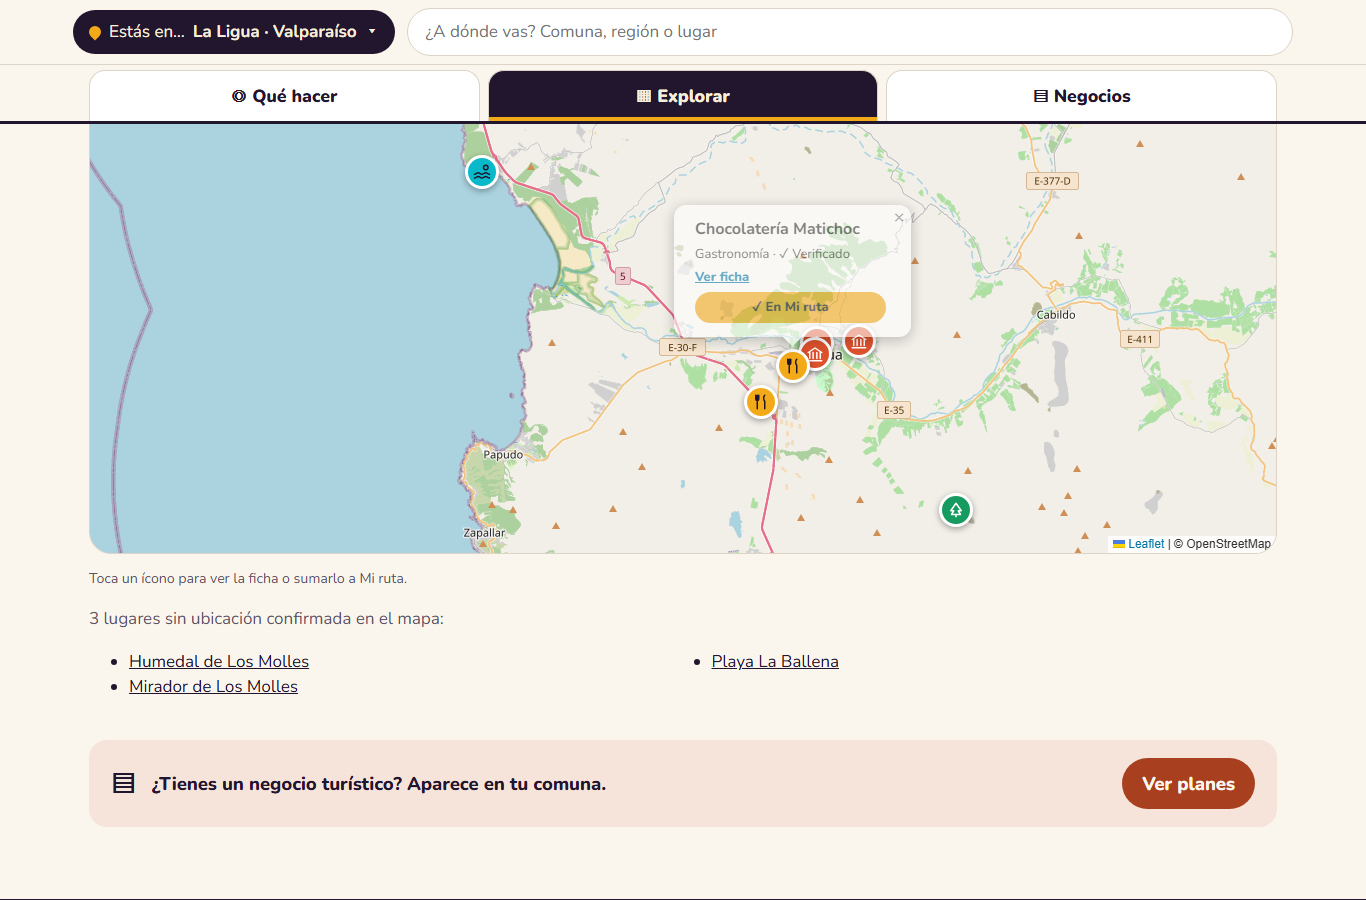
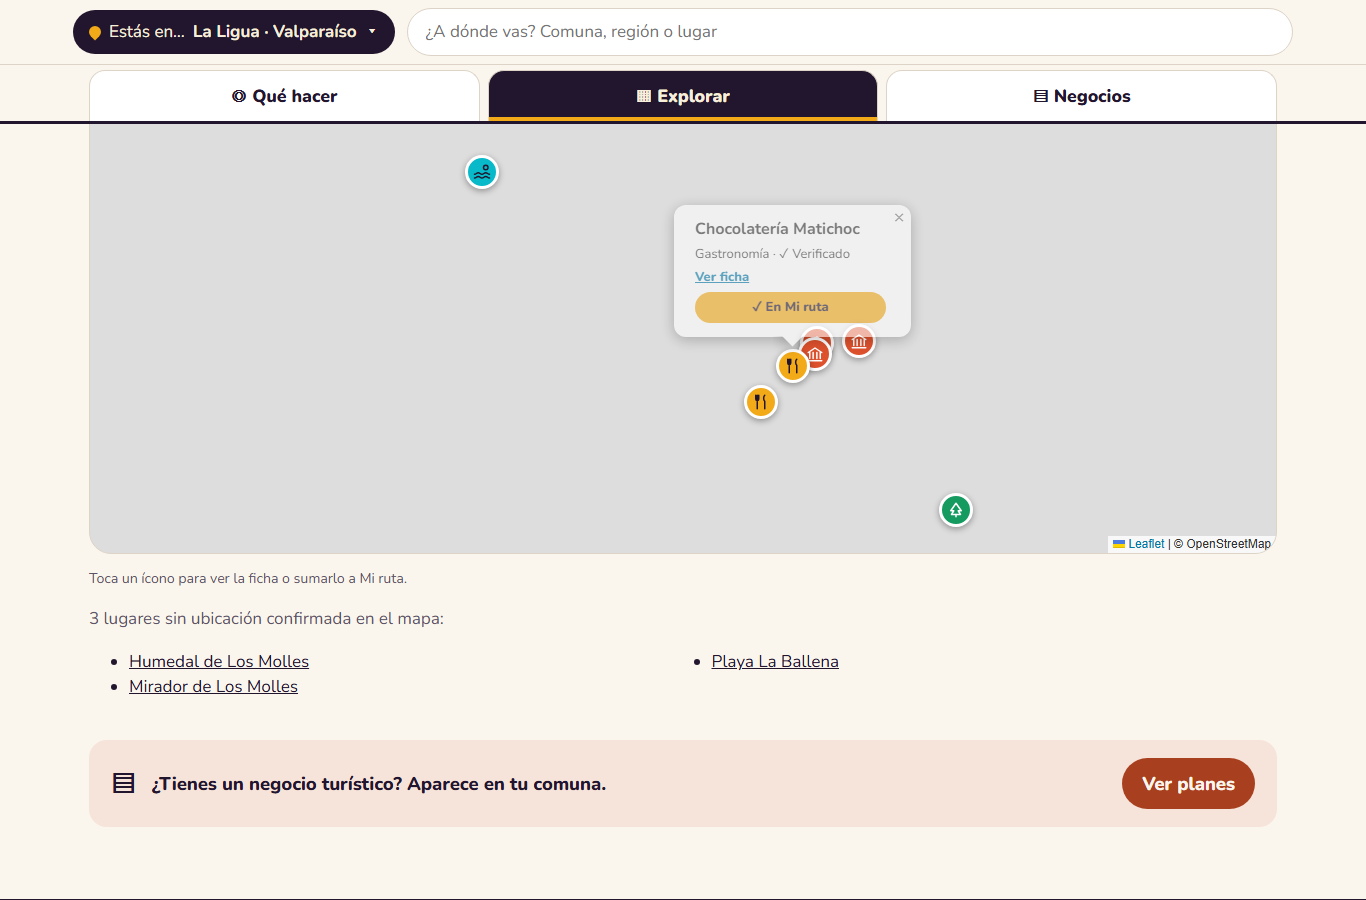
feat: agregar Humberstone y Santa Laura desde fuente oficial
Oficinas salitreras en Pozo Almonte (Provincia del Tamarugal), con ficha y
coordenadas del Consejo de Monumentos Nacionales y estado Fuente oficial.
Corrige el nombre de las provincias del Tamarugal y del Ranco.

diff --git a/packages/core/src/catalog.ts b/packages/core/src/catalog.ts
@@ -1,6 +1,7 @@
 import master from "../../../content/catalogo/maestro-app.json";
 import national from "../../../content/catalogo/osm-chile.json";
 import snapshot from "../../../content/catalogo/petorca.json";
+import official from "../../../content/catalogo/oficiales.json";
 import geography from "../../../content/catalogo/regiones.geo.json";
 import verificationLog from "../../../content/catalogo/verificacion.json";
 import planLog from "../../../content/catalogo/planes-negocios.json";
@@ -33,7 +34,7 @@ export interface Place {
   longitude: number | null;
   source: { url: string; label: string } | null;
   verification: VerificationStatus;
-  origin?: "osm" | "master";
+  origin?: "osm" | "master" | "official";
   importedAt: string;
   /** Plan comercial vigente (solo negocios). */
   plan?: BusinessPlan["id"] | null;
@@ -96,7 +97,12 @@ export const hiddenPlaceIds = new Set(
   (planLog.ocultos as { placeId: string }[]).map((r) => r.placeId),
 );
 export const places = (
-  [...snapshot.places, ...national.places, ...master.places] as Place[]
+  [
+    ...snapshot.places,
+    ...national.places,
+    ...master.places,
+    ...official.places,
+  ] as Place[]
 )
   .filter((p) => !hiddenPlaceIds.has(p.id))
   .map((p): Place => {

diff --git a/packages/core/src/catalog.test.ts b/packages/core/src/catalog.test.ts
@@ -223,3 +223,20 @@ describe("negocios en el mapa según plan", () => {
     ).toEqual(["chocolateria-matichoc"]);
   });
 });
+
+describe("lugares agregados desde fuentes oficiales", () => {
+  it("Humberstone está en Pozo Almonte con fuente y coordenadas oficiales", () => {
+    const h = places.find(
+      (p) => p.id === "oficinas-salitreras-humberstone-santa-laura",
+    )!;
+    expect(h).toMatchObject({
+      region: "tarapaca",
+      province: "del-tamarugal",
+      commune: "pozo-almonte",
+      verification: "official",
+      origin: "official",
+    });
+    expect(h.latitude).toBeCloseTo(-20.2086, 3);
+    expect(h.source?.url).toContain("monumentos.gob.cl");
+  });
+});

diff --git a/packages/i18n/src/es-sitio.ts b/packages/i18n/src/es-sitio.ts
@@ -56,7 +56,11 @@ export const sitio = {
     "Ilustración de referencia de la zona; no es una fotografía del lugar.",
   regionTitle: (name: string, id: string) =>
     id === "metropolitana" ? `Región ${name}` : `Región de ${name}`,
-  provinceTitle: (name: string) => `Provincia de ${name}`,
+  // «Del Tamarugal» y «Del Ranco» se nombran «Provincia del …».
+  provinceTitle: (name: string) =>
+    name.startsWith("Del ")
+      ? `Provincia del ${name.slice(4)}`
+      : `Provincia de ${name}`,
   provinces: "Provincias",
   communes: "Comunas",
   communesCount: (n: number) => plural(n, "comuna", "comunas"),

diff --git a/docs/BITACORA.md b/docs/BITACORA.md
@@ -304,3 +304,4 @@ GitHub rechazó la primera subida con GH007 por el correo privado de los commits
 - El titular decide tratar el Área de los Dulces de La Ligua como atractivo (zona tradicional de dulceras, no un negocio único): vuelve al mapa y a rutas y sale de la pestaña Negocios. Registro en `atractivosPublicos` de `planes-negocios.json`, sin modificar los datos de origen; cada dulcería puede sumarse con su propio plan.
 - El titular define: Matichoc con plan Destacado (el más completo), rotulado «★ Destacado» en tarjetas y ficha; los negocios que entregue en listados entran con plan Completo ($24.990) para aparecer en mapa y rutas.
 - Negocios encontrados en la web (sin registro) quedan al nivel Presencia: solo ficha, sin mapa ni rutas. Nueva lista `ocultos` en `planes-negocios.json` para retirar fichas del sitio y de la app sin borrar datos de origen; hoy vacía.
+- El titular nota que falta Humberstone en Tarapacá. Agregado desde fuente oficial en `content/catalogo/oficiales.json` (nuevo origen «official», sin tocar fuentes heredadas): Oficinas Salitreras Humberstone y Santa Laura, comuna de Pozo Almonte, Provincia del Tamarugal; Monumento Histórico (D. N° 320/1970) y Patrimonio Mundial UNESCO 2005; coordenadas UTM del Consejo de Monumentos Nacionales convertidas a WGS84 (la ubicación del registro Chile Patrimonios difiere 1,8 km por abarcar ambas oficinas). Estado «Fuente oficial». También se corrige «Provincia del Tamarugal / del Ranco».
